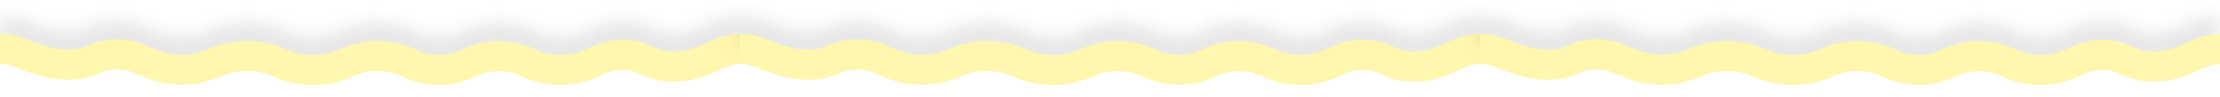
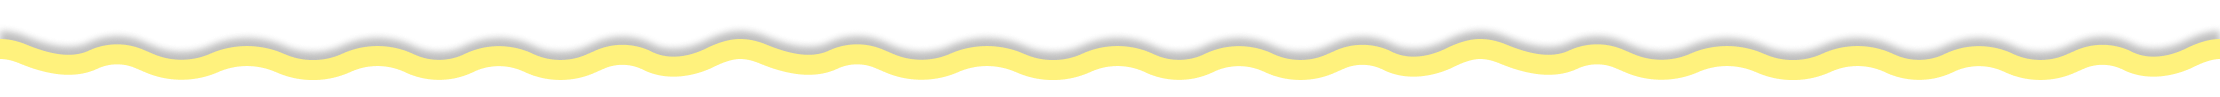
made a lot of progress

diff --git a/public/css/WebStyles.css b/public/css/WebStyles.css
@@ -1,8 +1,6 @@
 *{
     font-family: Arial, Helvetica, sans-serif;
     /* make padding not effect the width or the height of the div */
-    -webkit-box-sizing: border-box;
-    -moz-box-sizing: border-box;
     box-sizing: border-box;
 }
 body{
@@ -99,22 +97,23 @@ header > div{
 .partOne > div > .phonImage > img{
     width: 300px;
     filter: saturate(150%);
+    filter: brightness(110%);
 }
 .partOne > div > div > *{
     width: 100%;
 }
-.partOne > div > div > .appStores{
+.appStores{
     display: flex;
     margin-top: 30px;
 }
-.partOne > div > div > .appStores > div{
+.appStores > div{
     border: 2px solid black;
     margin-right: 10px;
     padding: 10px 15px;
     border-radius: 10px;
     background-color: #ffffff33;
 }
-.partOne > div > div > .appStores > div:nth-child(1){
+.appStores > div:nth-child(1){
     background-image: url("/images/amazonColored.png");
     background-position: center;
     background-position-y: 14px;
@@ -124,10 +123,10 @@ header > div{
     width: 190px;
     transition: 0.2s;
 }
-.partOne > div > div > .appStores > div:nth-child(1):hover{
+.appStores > div:nth-child(1):hover{
     background-color: #fff27d;
 }
-.partOne > div > div > .appStores > div:nth-child(2){
+.appStores > div:nth-child(2){
     background-image: url("/images/appGallery.png");
     background-position: center;
     background-repeat: no-repeat;
@@ -136,7 +135,7 @@ header > div{
     width: 170px;
     transition: 0.2s;
 }
-.partOne > div > div > .appStores > div:nth-child(2):hover{
+.appStores > div:nth-child(2):hover{
     background-color: #fff27d;
 }
 
@@ -195,29 +194,35 @@ header > div{
     >>>>>>>>>>>>>>>>>> footer <<<<<<<<<<<<<<<<<<<
 */
 footer{
+    display: flex;
+    justify-content: center;
     position: relative;
-    height: 100px;
     width: 100%;
     background-color: #FFF7AE;
-}
-footer > .footerContainer {
-    position: absolute;
-    top: -30px;
-    width: 100%;
-    height: 50px;
-}
-footer > .footerContainer > .footer{
-    position: absolute;
-    width: 100%;
-    height: 100%;
-    background-image: url('/images/forFooter.png');
-    background-repeat: repeat-x;
+    background-image: url("/images/background.png");
     background-size: 1000px;
-    background-position: center;
+    box-shadow: 0px 0px 30px 0px rgba(0,0,0,0.25);
 }
 footer > .theFooter {
+    display: flex;
+    justify-content: space-between;
     position: relative;
     z-index: 20;
+    padding: 25px;
+    width: 100%;
+    max-width: 1200px;
+}
+footer > .theFooter > div{
+    padding: 10px 0px;
+    margin: 10px 0px;
+    flex: 1;
+}
+footer > .theFooter > div > .title{
+    font-size: large;
+    font-weight: bold;
+}
+footer > .theFooter > div > div{
+    margin: 20px 0px;
 }
 
 /* 
